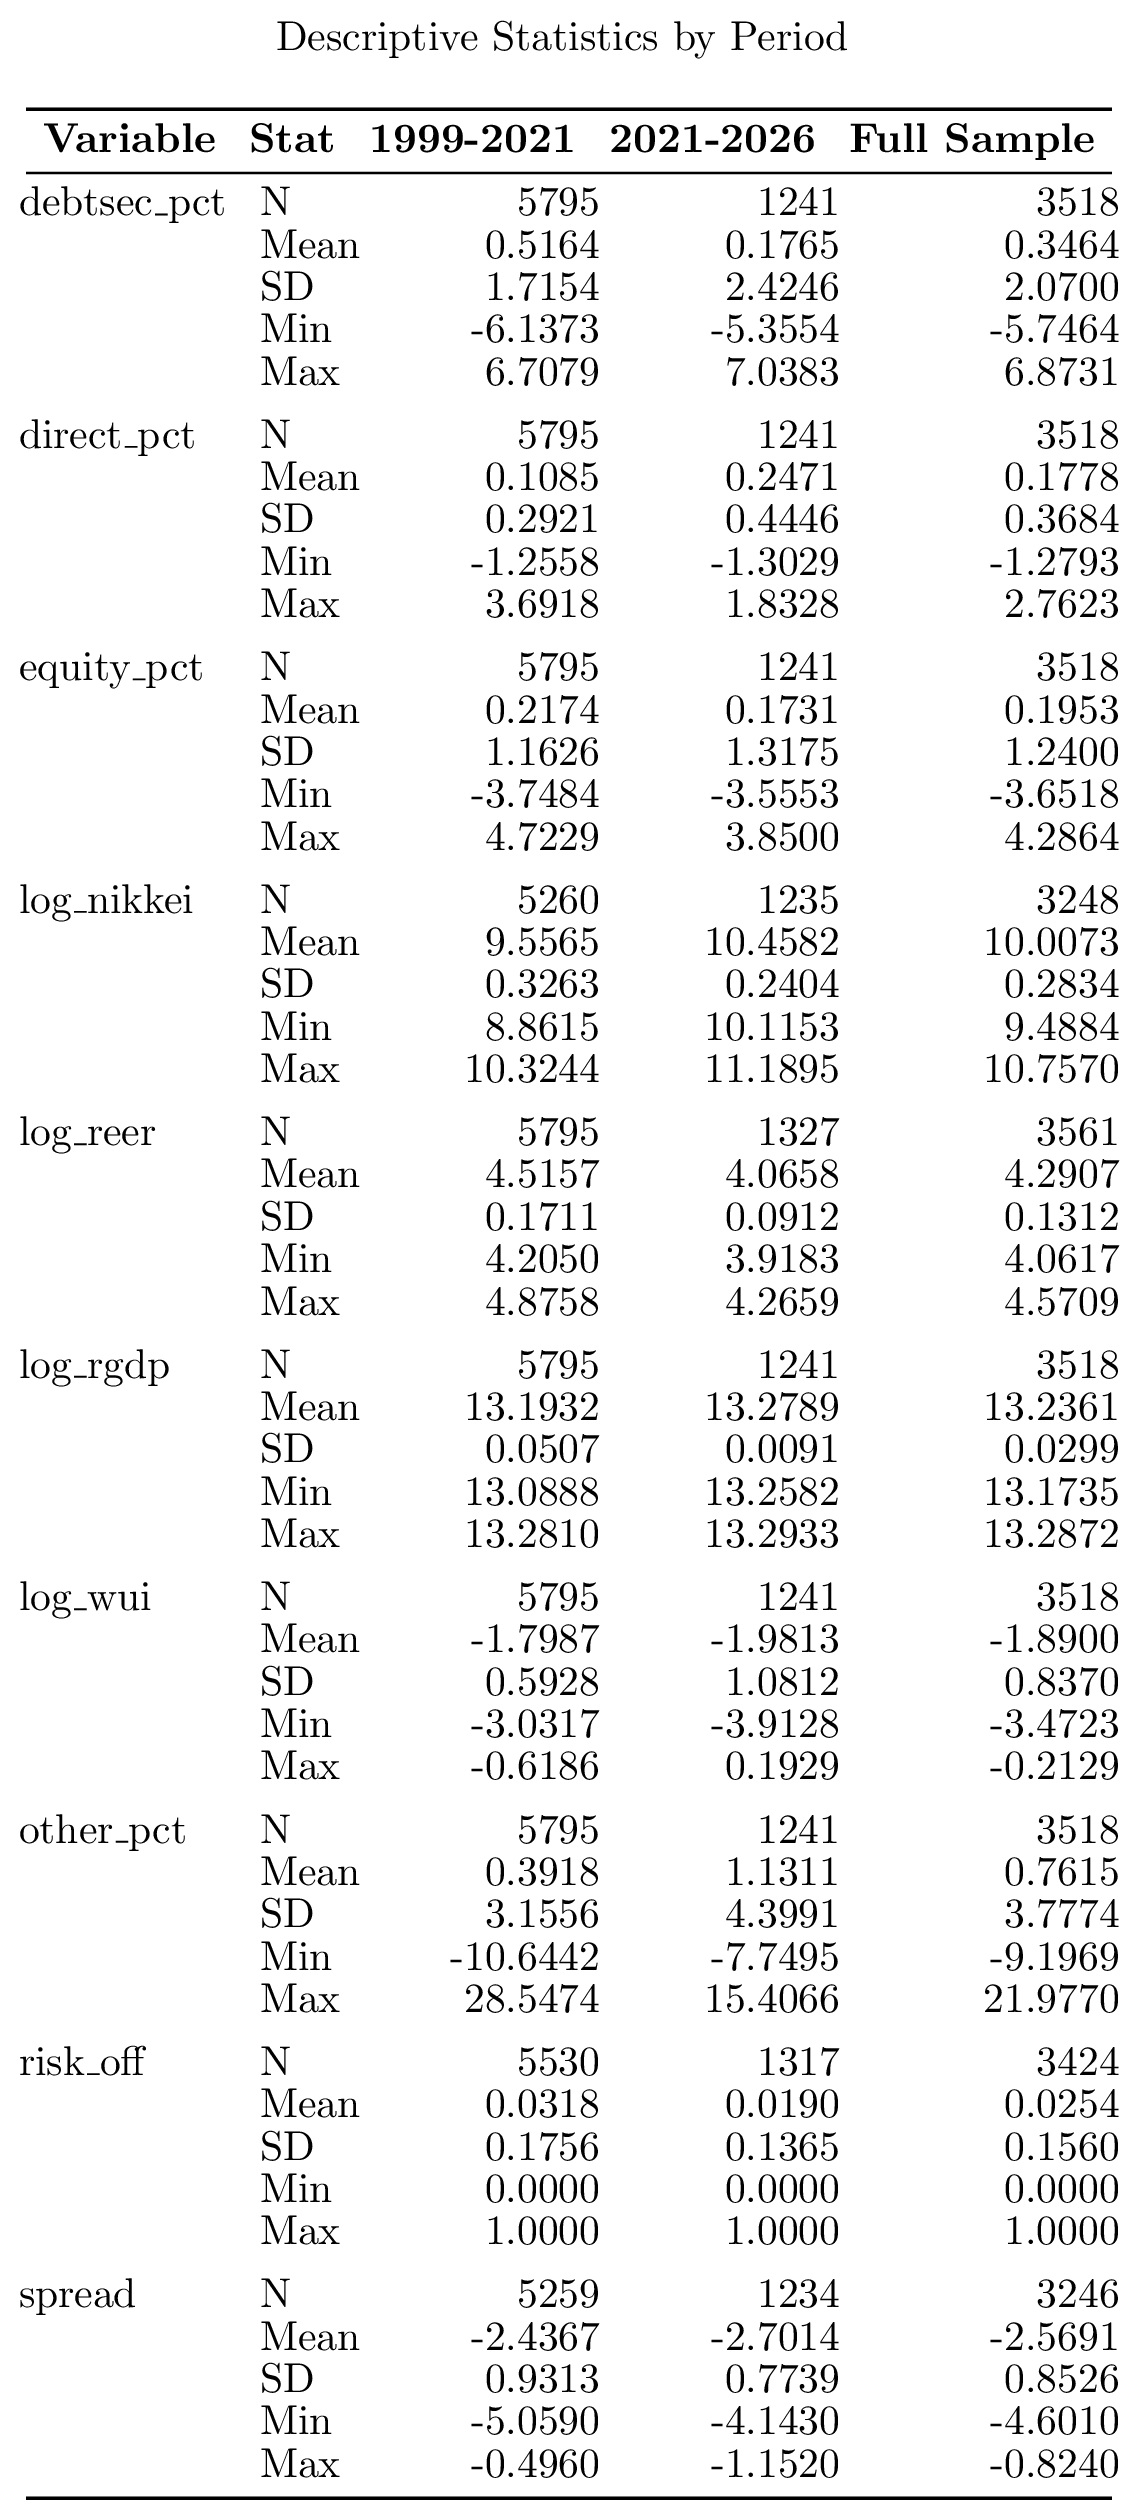
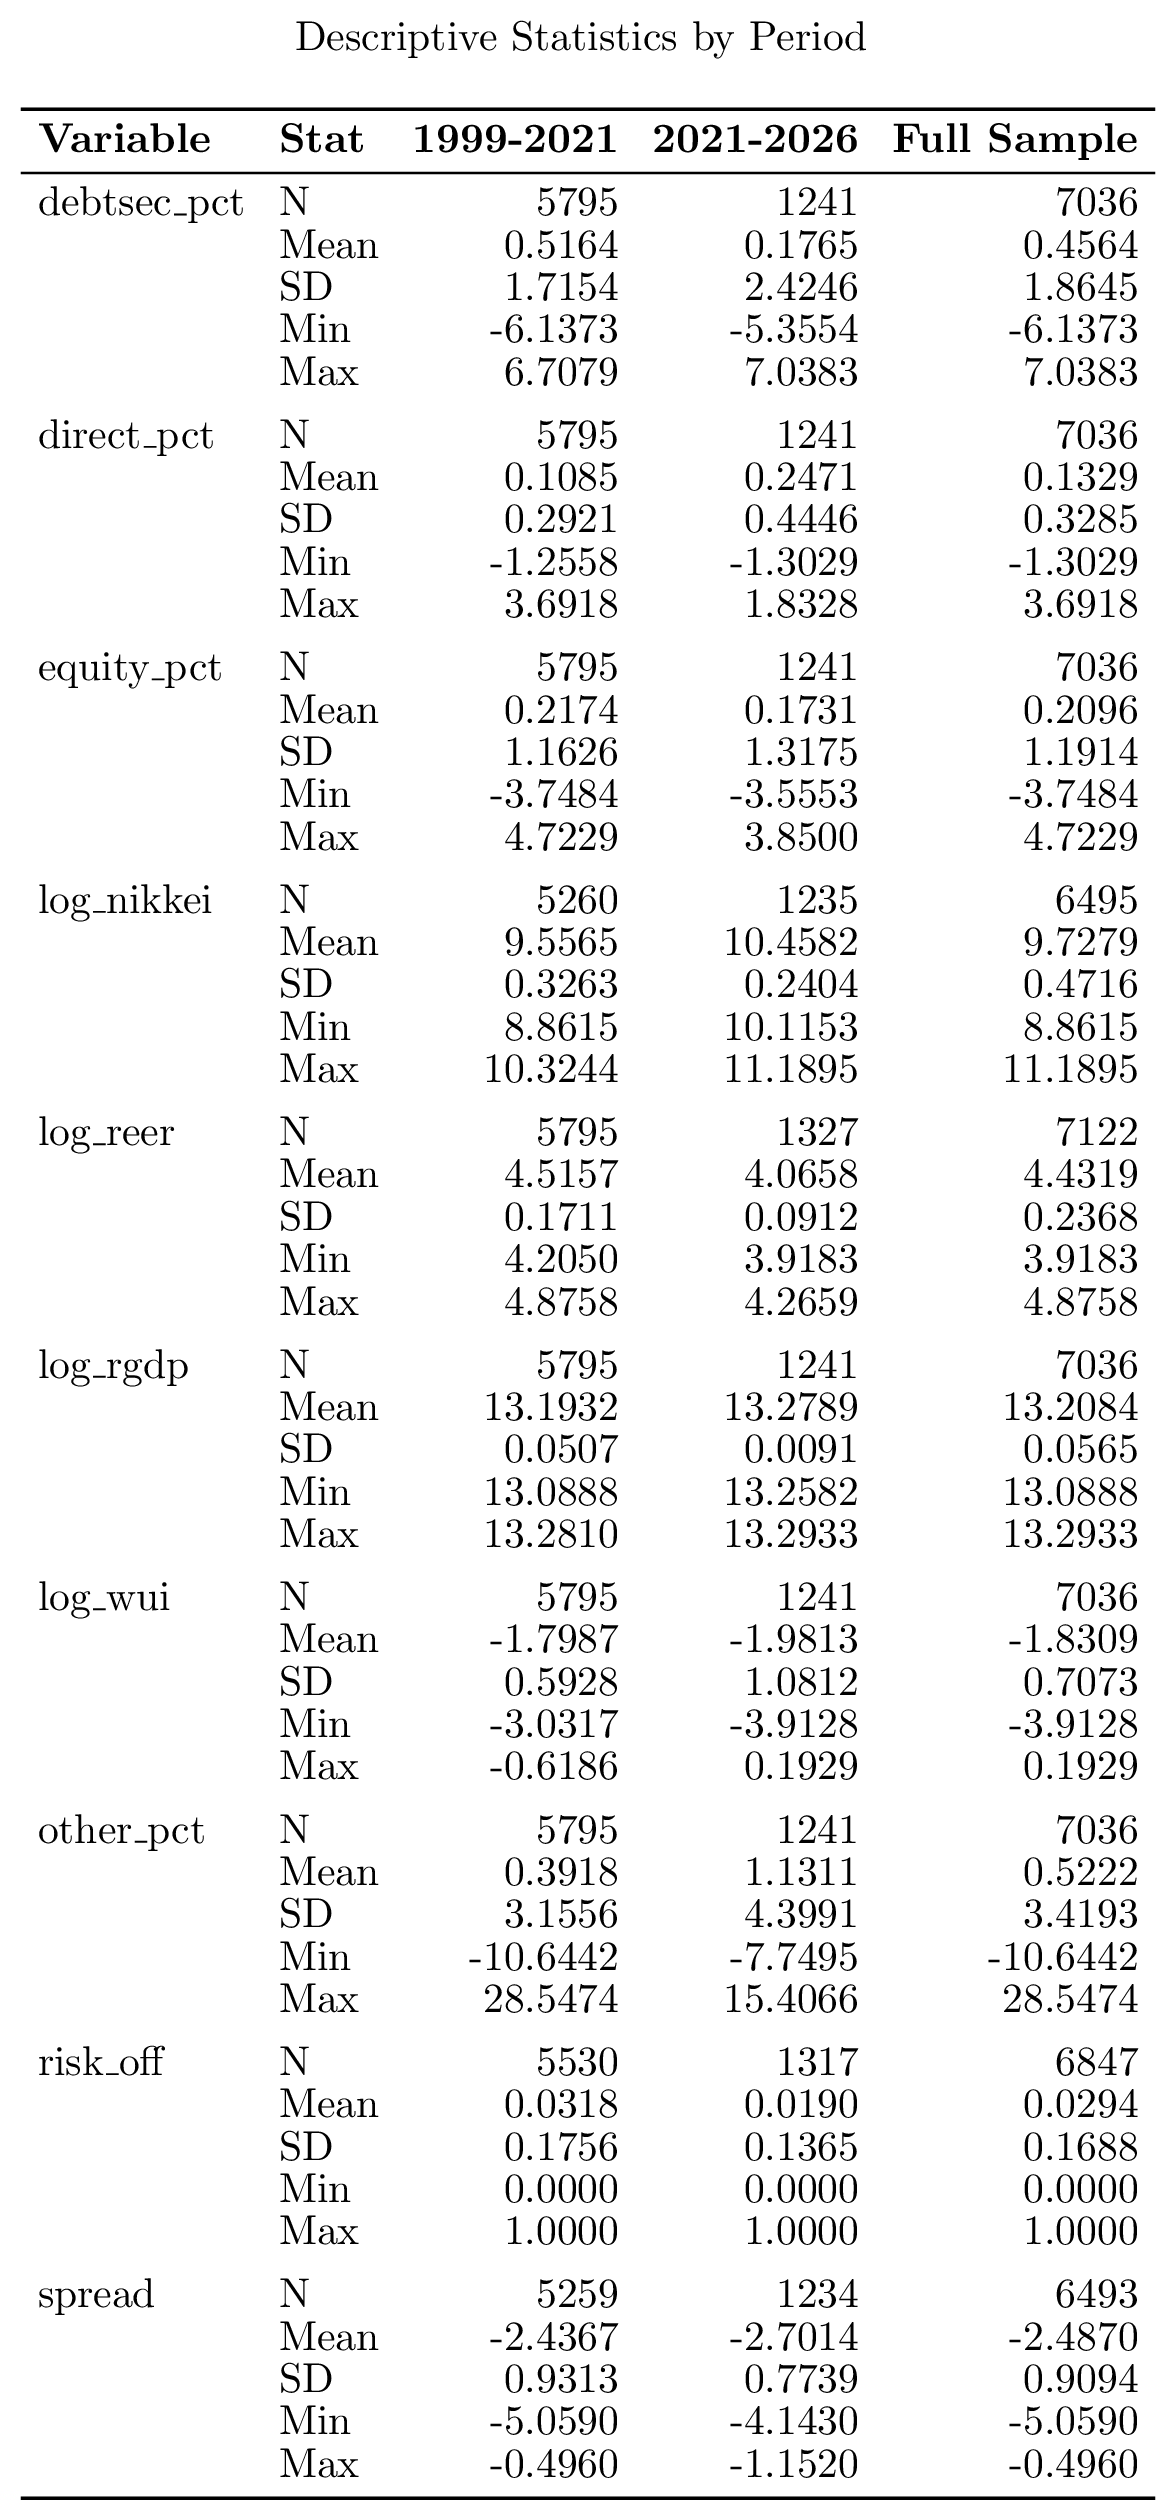
fix(table): compute full-sample stats from raw data, not period averages

diff --git a/drafts/descriptive_stats_table.tex b/drafts/descriptive_stats_table.tex
@@ -23,65 +23,65 @@
   \endfoot
   \bottomrule
   \endlastfoot
-debtsec\_pct    & N     &       5795 &       1241 &       3518\\
-                & Mean  &     0.5164 &     0.1765 &     0.3464\\
-                & SD    &     1.7154 &     2.4246 &     2.0700\\
-                & Min   &    -6.1373 &    -5.3554 &    -5.7464\\
-                & Max   &     6.7079 &     7.0383 &     6.8731\\
+debtsec\_pct    & N     &       5795 &       1241 &       7036\\
+                & Mean  &     0.5164 &     0.1765 &     0.4564\\
+                & SD    &     1.7154 &     2.4246 &     1.8645\\
+                & Min   &    -6.1373 &    -5.3554 &    -6.1373\\
+                & Max   &     6.7079 &     7.0383 &     7.0383\\
 \addlinespace
-direct\_pct     & N     &       5795 &       1241 &       3518\\
-                & Mean  &     0.1085 &     0.2471 &     0.1778\\
-                & SD    &     0.2921 &     0.4446 &     0.3684\\
-                & Min   &    -1.2558 &    -1.3029 &    -1.2793\\
-                & Max   &     3.6918 &     1.8328 &     2.7623\\
+direct\_pct     & N     &       5795 &       1241 &       7036\\
+                & Mean  &     0.1085 &     0.2471 &     0.1329\\
+                & SD    &     0.2921 &     0.4446 &     0.3285\\
+                & Min   &    -1.2558 &    -1.3029 &    -1.3029\\
+                & Max   &     3.6918 &     1.8328 &     3.6918\\
 \addlinespace
-equity\_pct     & N     &       5795 &       1241 &       3518\\
-                & Mean  &     0.2174 &     0.1731 &     0.1953\\
-                & SD    &     1.1626 &     1.3175 &     1.2400\\
-                & Min   &    -3.7484 &    -3.5553 &    -3.6518\\
-                & Max   &     4.7229 &     3.8500 &     4.2864\\
+equity\_pct     & N     &       5795 &       1241 &       7036\\
+                & Mean  &     0.2174 &     0.1731 &     0.2096\\
+                & SD    &     1.1626 &     1.3175 &     1.1914\\
+                & Min   &    -3.7484 &    -3.5553 &    -3.7484\\
+                & Max   &     4.7229 &     3.8500 &     4.7229\\
 \addlinespace
-log\_nikkei     & N     &       5260 &       1235 &       3248\\
-                & Mean  &     9.5565 &    10.4582 &    10.0073\\
-                & SD    &     0.3263 &     0.2404 &     0.2834\\
-                & Min   &     8.8615 &    10.1153 &     9.4884\\
-                & Max   &    10.3244 &    11.1895 &    10.7570\\
+log\_nikkei     & N     &       5260 &       1235 &       6495\\
+                & Mean  &     9.5565 &    10.4582 &     9.7279\\
+                & SD    &     0.3263 &     0.2404 &     0.4716\\
+                & Min   &     8.8615 &    10.1153 &     8.8615\\
+                & Max   &    10.3244 &    11.1895 &    11.1895\\
 \addlinespace
-log\_reer       & N     &       5795 &       1327 &       3561\\
-                & Mean  &     4.5157 &     4.0658 &     4.2907\\
-                & SD    &     0.1711 &     0.0912 &     0.1312\\
-                & Min   &     4.2050 &     3.9183 &     4.0617\\
-                & Max   &     4.8758 &     4.2659 &     4.5709\\
+log\_reer       & N     &       5795 &       1327 &       7122\\
+                & Mean  &     4.5157 &     4.0658 &     4.4319\\
+                & SD    &     0.1711 &     0.0912 &     0.2368\\
+                & Min   &     4.2050 &     3.9183 &     3.9183\\
+                & Max   &     4.8758 &     4.2659 &     4.8758\\
 \addlinespace
-log\_rgdp       & N     &       5795 &       1241 &       3518\\
-                & Mean  &    13.1932 &    13.2789 &    13.2361\\
-                & SD    &     0.0507 &     0.0091 &     0.0299\\
-                & Min   &    13.0888 &    13.2582 &    13.1735\\
-                & Max   &    13.2810 &    13.2933 &    13.2872\\
+log\_rgdp       & N     &       5795 &       1241 &       7036\\
+                & Mean  &    13.1932 &    13.2789 &    13.2084\\
+                & SD    &     0.0507 &     0.0091 &     0.0565\\
+                & Min   &    13.0888 &    13.2582 &    13.0888\\
+                & Max   &    13.2810 &    13.2933 &    13.2933\\
 \addlinespace
-log\_wui        & N     &       5795 &       1241 &       3518\\
-                & Mean  &    -1.7987 &    -1.9813 &    -1.8900\\
-                & SD    &     0.5928 &     1.0812 &     0.8370\\
-                & Min   &    -3.0317 &    -3.9128 &    -3.4723\\
-                & Max   &    -0.6186 &     0.1929 &    -0.2129\\
+log\_wui        & N     &       5795 &       1241 &       7036\\
+                & Mean  &    -1.7987 &    -1.9813 &    -1.8309\\
+                & SD    &     0.5928 &     1.0812 &     0.7073\\
+                & Min   &    -3.0317 &    -3.9128 &    -3.9128\\
+                & Max   &    -0.6186 &     0.1929 &     0.1929\\
 \addlinespace
-other\_pct      & N     &       5795 &       1241 &       3518\\
-                & Mean  &     0.3918 &     1.1311 &     0.7615\\
-                & SD    &     3.1556 &     4.3991 &     3.7774\\
-                & Min   &   -10.6442 &    -7.7495 &    -9.1969\\
-                & Max   &    28.5474 &    15.4066 &    21.9770\\
+other\_pct      & N     &       5795 &       1241 &       7036\\
+                & Mean  &     0.3918 &     1.1311 &     0.5222\\
+                & SD    &     3.1556 &     4.3991 &     3.4193\\
+                & Min   &   -10.6442 &    -7.7495 &   -10.6442\\
+                & Max   &    28.5474 &    15.4066 &    28.5474\\
 \addlinespace
-risk\_off       & N     &       5530 &       1317 &       3424\\
-                & Mean  &     0.0318 &     0.0190 &     0.0254\\
-                & SD    &     0.1756 &     0.1365 &     0.1560\\
+risk\_off       & N     &       5530 &       1317 &       6847\\
+                & Mean  &     0.0318 &     0.0190 &     0.0294\\
+                & SD    &     0.1756 &     0.1365 &     0.1688\\
                 & Min   &     0.0000 &     0.0000 &     0.0000\\
                 & Max   &     1.0000 &     1.0000 &     1.0000\\
 \addlinespace
-spread          & N     &       5259 &       1234 &       3246\\
-                & Mean  &    -2.4367 &    -2.7014 &    -2.5691\\
-                & SD    &     0.9313 &     0.7739 &     0.8526\\
-                & Min   &    -5.0590 &    -4.1430 &    -4.6010\\
-                & Max   &    -0.4960 &    -1.1520 &    -0.8240\\
+spread          & N     &       5259 &       1234 &       6493\\
+                & Mean  &    -2.4367 &    -2.7014 &    -2.4870\\
+                & SD    &     0.9313 &     0.7739 &     0.9094\\
+                & Min   &    -5.0590 &    -4.1430 &    -5.0590\\
+                & Max   &    -0.4960 &    -1.1520 &    -0.4960\\
 \end{longtable}
 
 \end{document}
